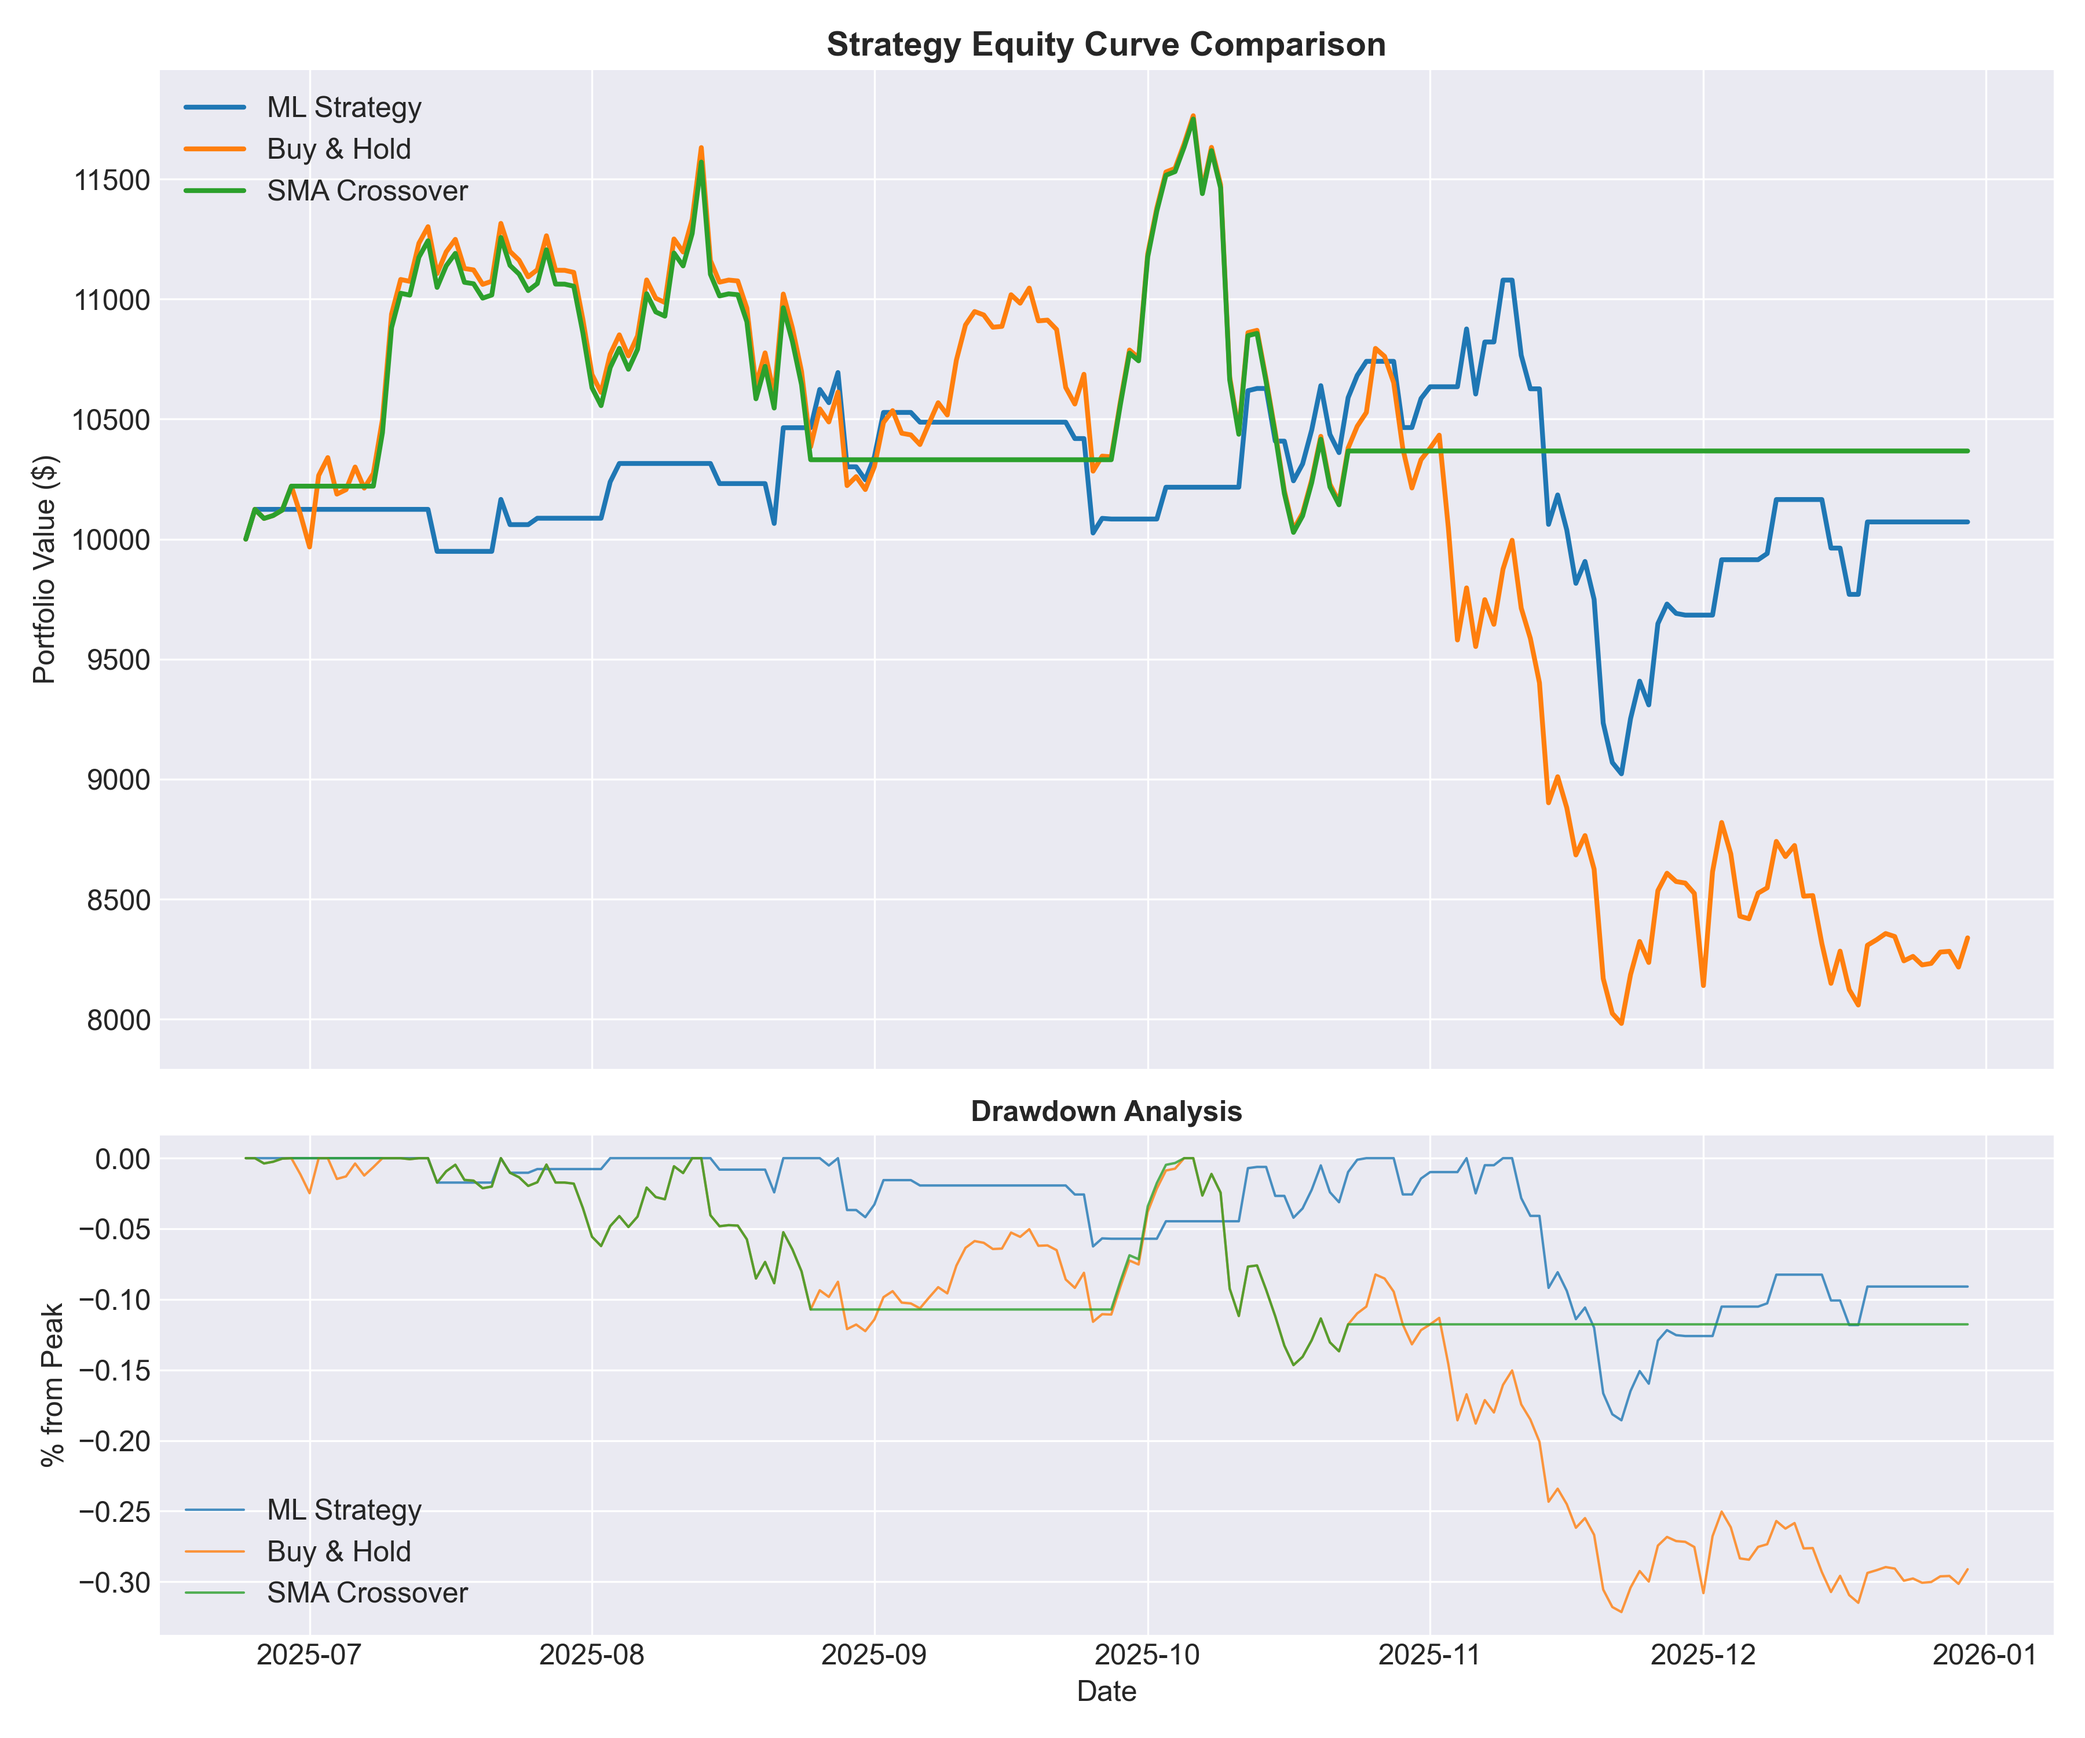
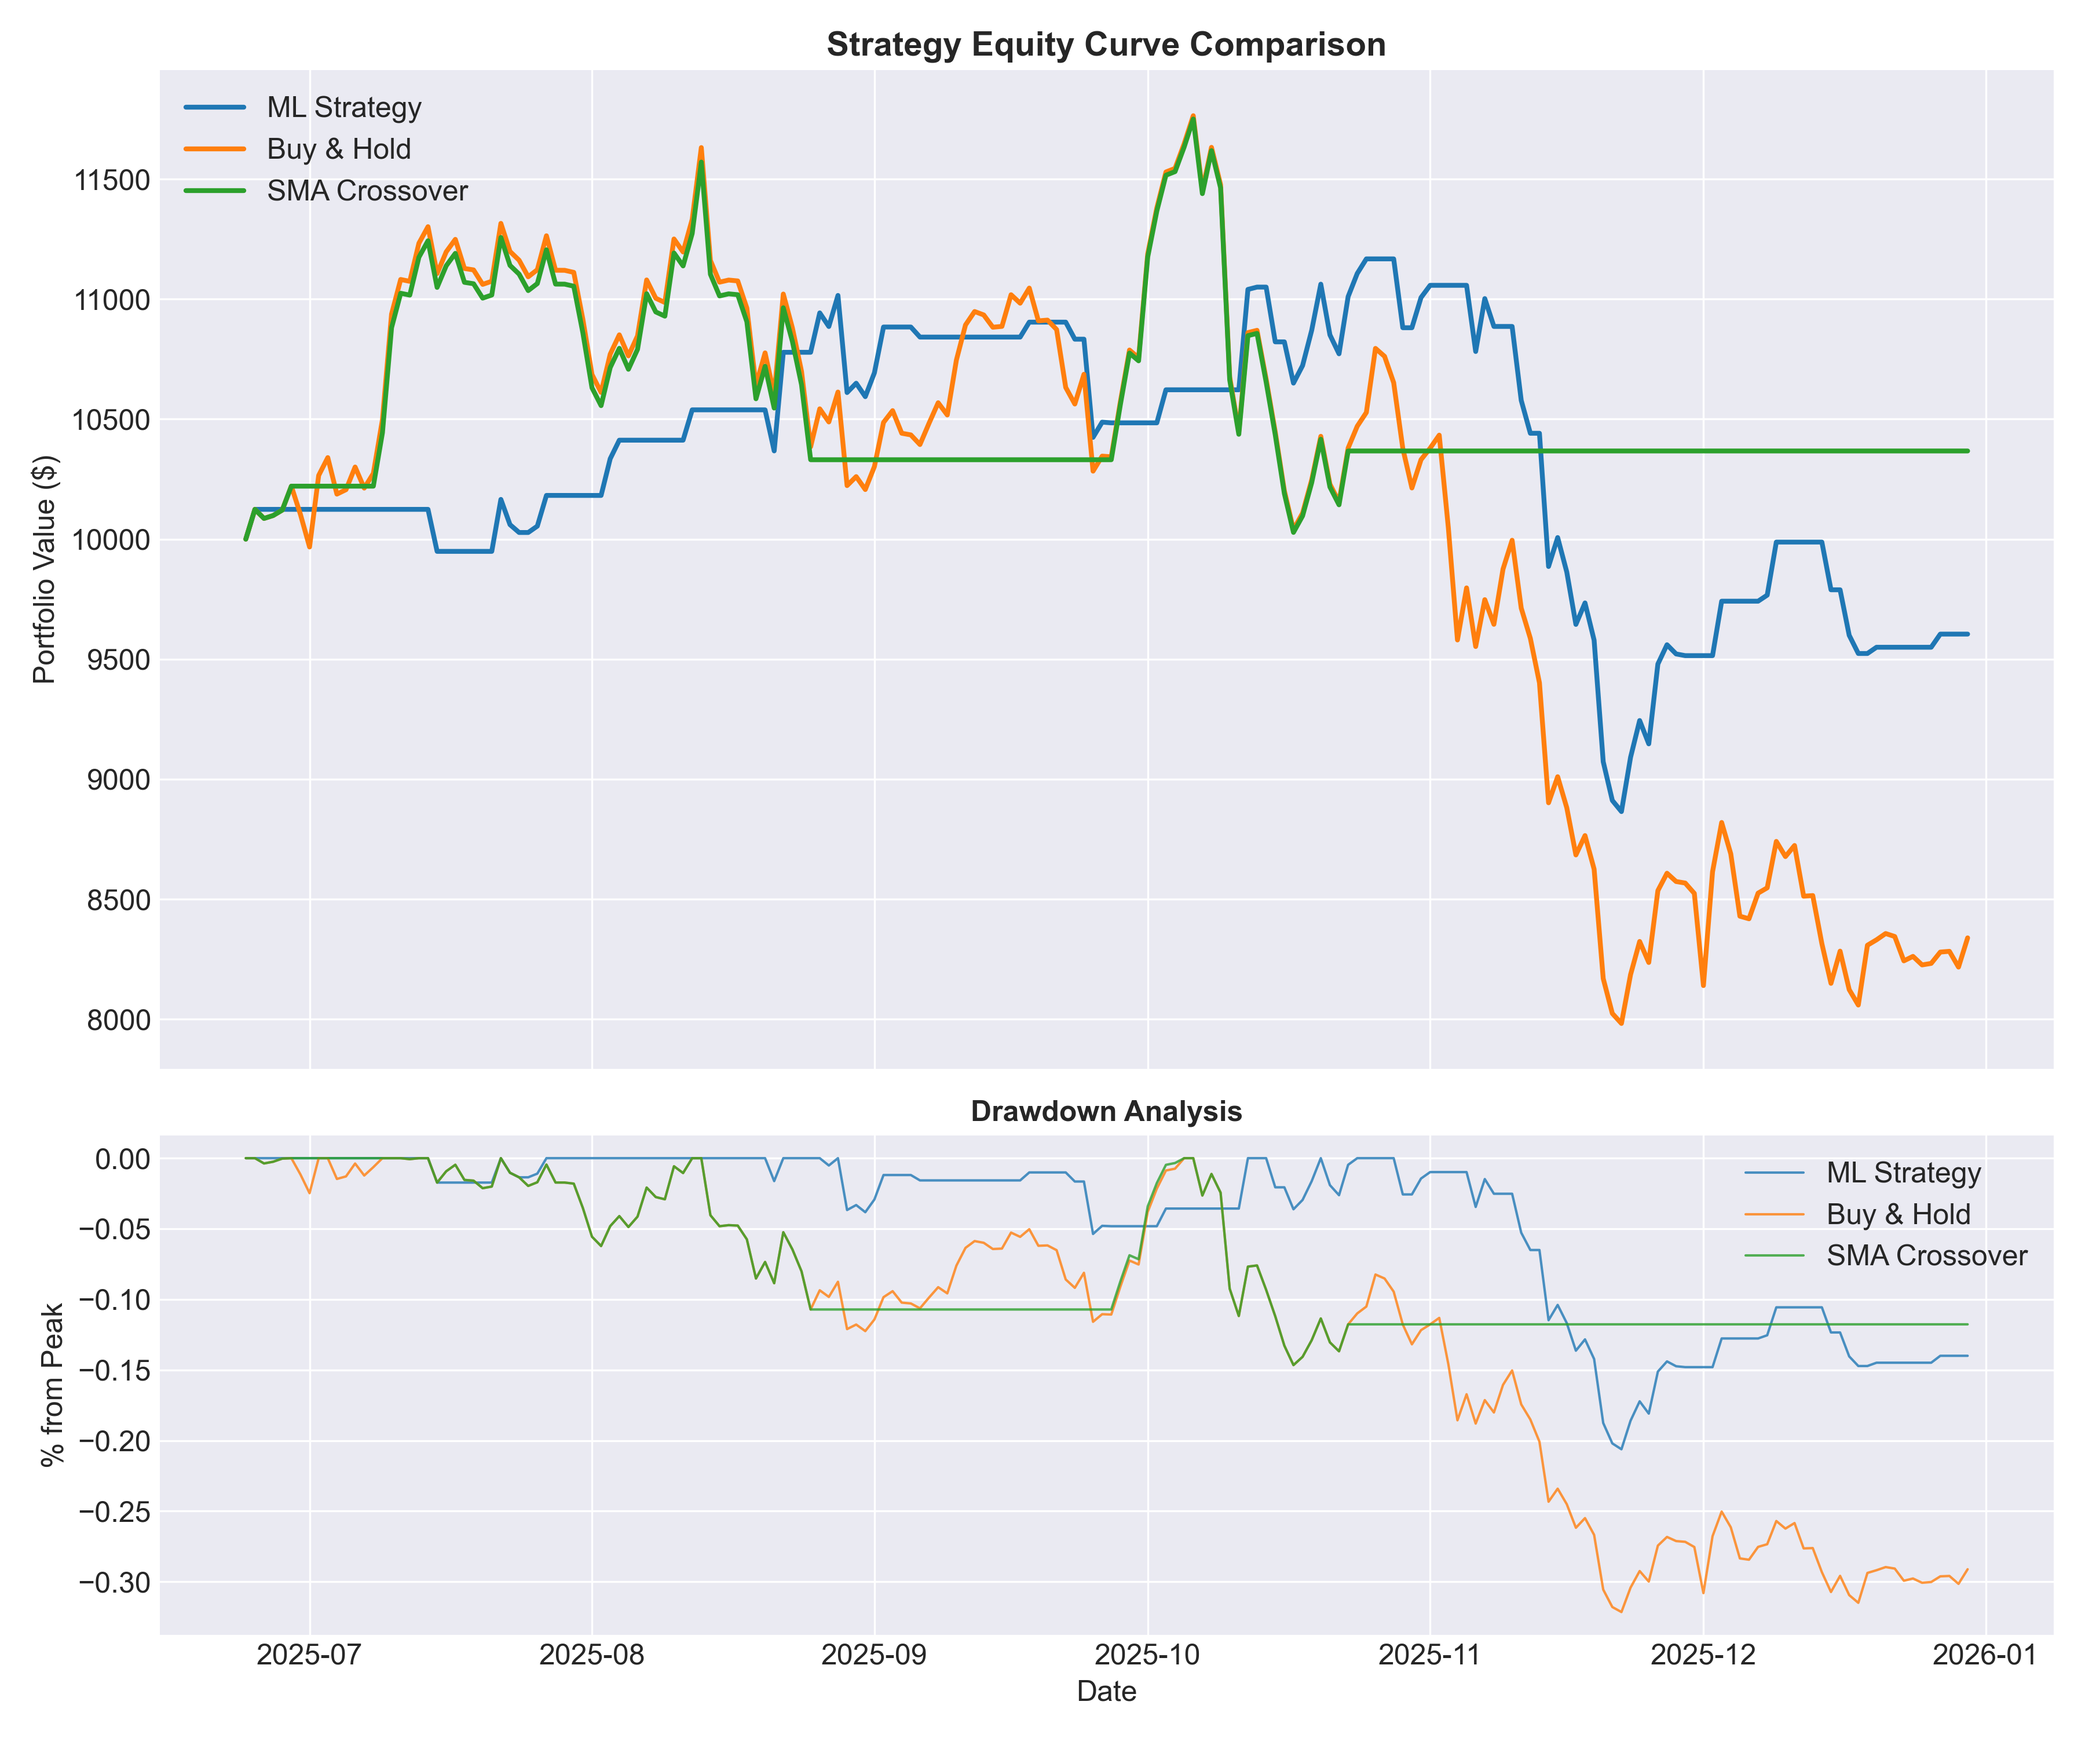
Fix data leakage: Implement strict Train/Test split and Early Stopping

diff --git a/main.py b/main.py
@@ -35,9 +35,15 @@ def process_coin(coin, days, threshold, initial_balance=10000):
     y = df_features['target']
     
     # Time-based split for training (80/20)
+    # Time-based split: 80% train (includes validation for tuning), 20% test
+    # CRITICAL: We lock away X_test until the very end to prevent data leakage.
     split = int(len(X) * 0.8)
-    X_train, X_test = X.iloc[:split], X.iloc[split:]
-    y_train, y_test = y.iloc[:split], y.iloc[split:]
+    
+    X_train = X.iloc[:split] # Used for Optimization + Training
+    y_train = y.iloc[:split]
+    
+    X_test = X.iloc[split:] # Used ONLY for final evaluation
+    y_test = y.iloc[split:]
 
     # ---------------------------------------------------------
     # STRETCH GOAL 1: Model Comparison (Random Forest vs Deep Learning)
@@ -45,8 +51,11 @@ def process_coin(coin, days, threshold, initial_balance=10000):
     
     # --- Model A: Random Forest (Optimized) ---
     print("\n[MODEL A] Random Forest Optimization...")
+    # Fix: Optimize ONLY on the Train set, not the full dataset
     optimizer = ModelOptimizer(n_splits=3)
-    rf_model = optimizer.optimize_random_forest(X, y, n_iter=5)
+    rf_model = optimizer.optimize_random_forest(X_train, y_train, n_iter=5)
+    
+    # Refit on the full Train set before predicting on Test
     rf_model.fit(X_train, y_train)
     rf_preds = rf_model.predict(X_test)
     

diff --git a/src/models.py b/src/models.py
@@ -13,6 +13,7 @@ try:
     from tensorflow.keras.models import Sequential
     from tensorflow.keras.layers import Dense, Dropout, Input
     from tensorflow.keras.optimizers import Adam
+    from tensorflow.keras.callbacks import EarlyStopping
     TF_AVAILABLE = True
 except ImportError:
     print("[WARN] TensorFlow not found. Deep Learning model will be skipped.")
@@ -174,8 +175,23 @@ def train_dl_model(df: pd.DataFrame) -> Tuple[Any, Any, Any, Any]:
                   loss='binary_crossentropy', 
                   metrics=['accuracy'])
     
-    # 4. Train
-    model.fit(X_train, y_train, epochs=50, batch_size=16, verbose=0)
+    # 4. Train with Early Stopping
+    # We use 20% of X_train as a validation set to monitor overfitting.
+    early_stop = EarlyStopping(
+        monitor='val_loss', 
+        patience=5, 
+        restore_best_weights=True,
+        verbose=1
+    )
+    
+    model.fit(
+        X_train, y_train, 
+        epochs=50, 
+        batch_size=16, 
+        validation_split=0.2, # Create internal validation set
+        callbacks=[early_stop],
+        verbose=0
+    )
     
     # 5. Predict
     # The NN outputs probabilities (e.g., 0.75). We convert to 0 or 1.
